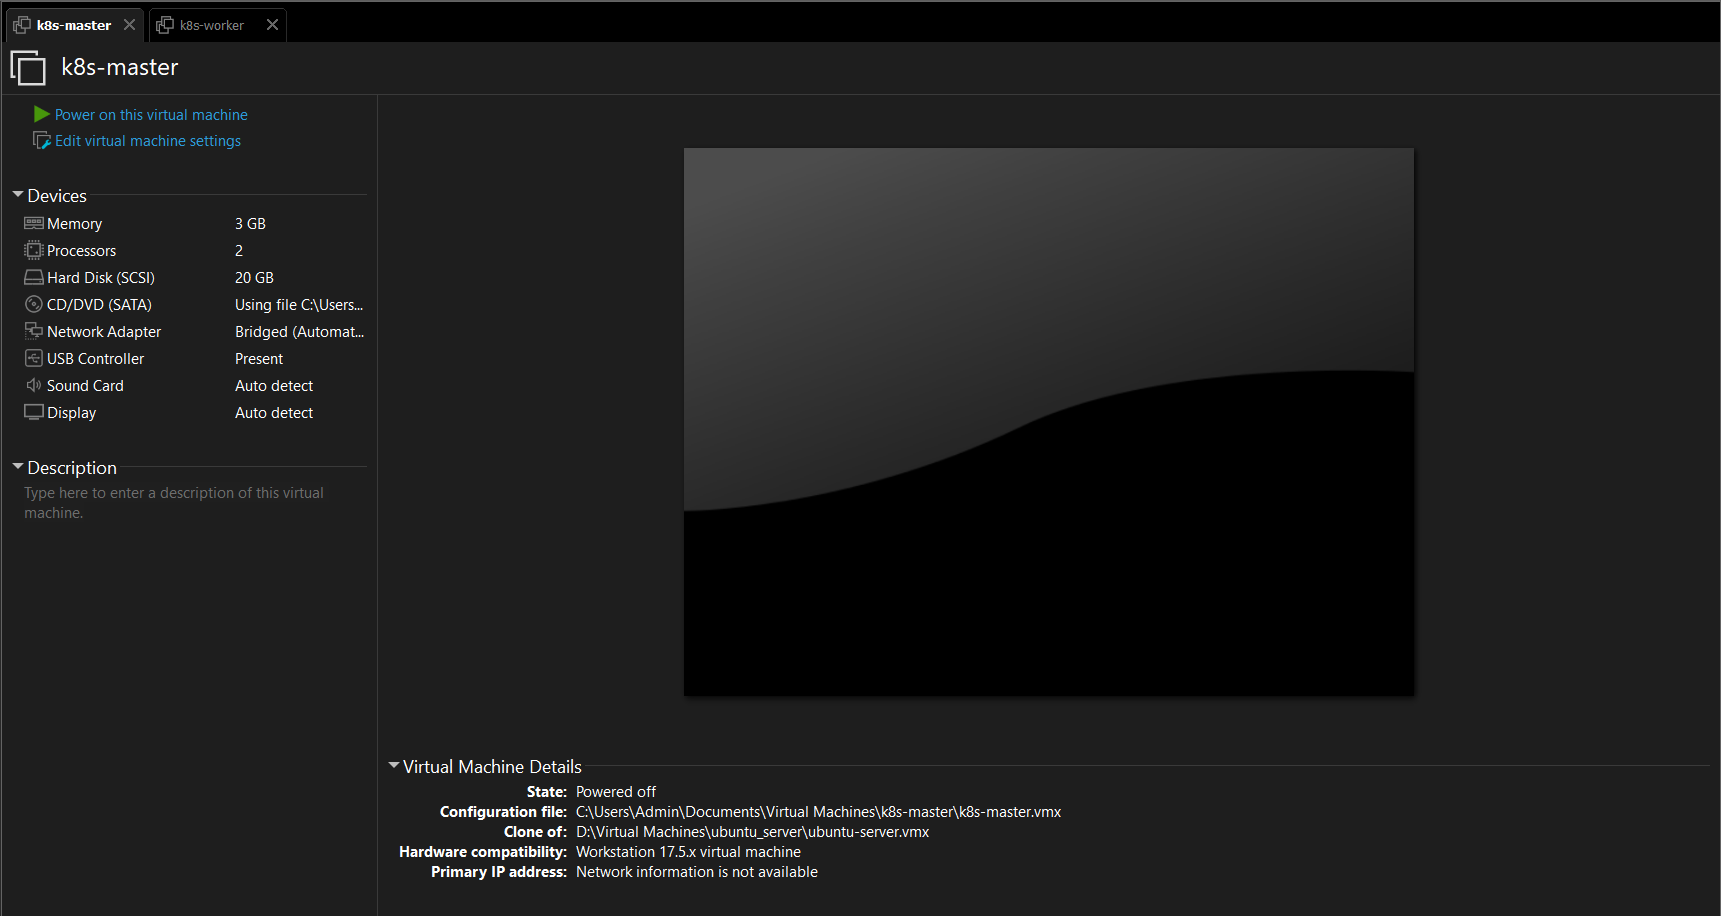
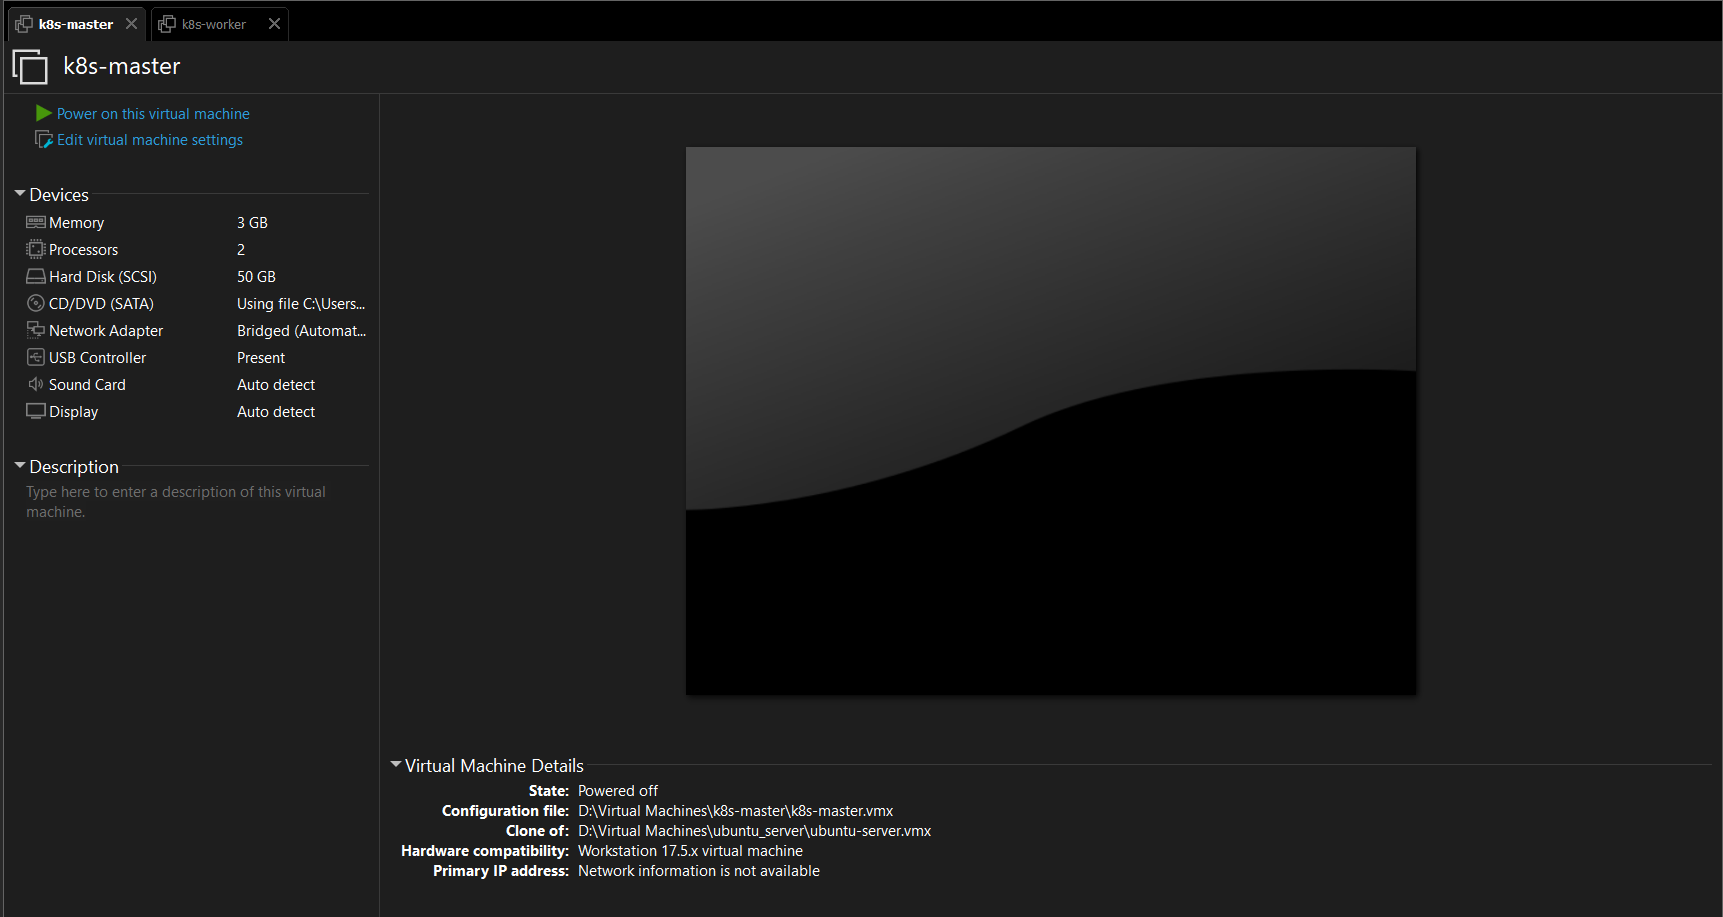
update

diff --git a/ThangPB_b23dcat274_training/cuoi_khoa/README.md b/ThangPB_b23dcat274_training/cuoi_khoa/README.md
@@ -5,13 +5,13 @@
 - Hai VM với cấu hình:
     - **CPU**: 2 core
     - **RAM**: 3GB
-    - **Dung lượng bộ nhớ**: 20GB
+    - **Dung lượng bộ nhớ**: 50GB
 - Hình ảnh minh họa:
 
 <img src="./image/a1.png" alt="" width="900" height="500">
 
 ### Cấu hình mạng cho VM
-- Đại chỉ IP tĩnh cho 2 máy:
+- Địa chỉ IP tĩnh cho 2 máy:
     - **Master**: 192.168.1.120
     - **Worker**: 192.168.1.121
 - Master:
@@ -22,15 +22,15 @@
 
 <img src="./image/a3.png" alt="" width="800" height="400">
 
-### Cài đặt K8s thông qua công cụ kubeadm
+### Cài đặt Kubernetes
 - Tắt swap: kubelet mặc định không chạy khi swap bật, vì ảnh hưởng quản lý bộ nhớ
     ```bash
     sudo swapoff -a
     sudo sed -i '/ swap / s/^/#/' /etc/fstab
     ```
 - Bật kernel modules và sysctl cho networking
-    - `br_netfilter`: để iptables nhìn thấy traffic qua bridge
-    - `ip_forward`: cho phép routing gói tin giữa pod/subnet
+    - **br_netfilter**: để iptables nhìn thấy traffic qua bridge
+    - **ip_forward**: cho phép routing gói tin giữa pod/subnet
     ```bash
     cat <<EOF | sudo tee /etc/modules-load.d/k8s.conf
     overlay
@@ -61,11 +61,11 @@
     sudo systemctl enable containerd
     ```
 - Cài kubeadm/kubelet/kubectl
-    - `kubeadm`: công cụ bootstrap cluster (init/join)
-    - `kubelet`: agent chạy trên node, quản lý pod/container
-    - `kubectl`: CLI quản trị cluster
+    - **kubeadm**: công cụ bootstrap cluster (init/join)
+    - **kubelet**: agent chạy trên node, quản lý pod/container
+    - **kubectl**: CLI quản trị cluster
     ```bash
-        sudo apt update
+    sudo apt update
     sudo apt install -y apt-transport-https ca-certificates curl gpg
     curl -fsSL https://pkgs.k8s.io/core:/stable:/v1.30/deb/Release.key | sudo gpg --dearmor -o /etc/apt/keyrings/kubernetes-apt-keyring.gpg
     echo "deb [signed-by=/etc/apt/keyrings/kubernetes-apt-keyring.gpg] https://pkgs.k8s.io/core:/stable:/v1.30/deb/ /" | sudo tee /etc/apt/sources.list.d/kubernetes.list
@@ -75,14 +75,20 @@
     sudo apt-mark hold kubelet kubeadm kubectl
     ```
 ### Dựng cụm với 1 master - 1 worker
-- Khởi tạo control-plane (trên node master): `sudo kubeadm init`
+- Khởi tạo control-plane (trên node master)
+    ```bash
+    sudo kubeadm init
+    ```
 - Cấu hình kubeconfig cho user (trên node master)
     ```bash
     mkdir -p $HOME/.kube
     sudo cp -i /etc/kubernetes/admin.conf $HOME/.kube/config
     sudo chown $(id -u):$(id -g) $HOME/.kube/config
     ```
-- Cài netwwork với Calico: `kubectl apply -f https://raw.githubusercontent.com/projectcalico/calico/v3.25.0/manifests/calico.yaml`
+- Cài netwwork với Calico 
+    ```bash
+    kubectl apply -f https://raw.githubusercontent.com/projectcalico/calico/v3.25.0/manifests/calico.yaml
+    ```
 - Thêm worker vào cluster (trên node worker)
     ```bash
     kubeadm join 192.168.1.120:6443 --token m9wqak.afb0zw2bfjqium8x \
@@ -100,9 +106,17 @@
 ---
 ## Phần 2: K8s-HelmChart
 ### App được lựa chọn
-- hehe ...
+- Web quản lý sinh viên
+- Teck stack:
+    - **Frontend**: React Vite JS
+    - **Backend**: Node JS
+    - **Database**: MySQL
+- Hình ảnh
+
+<img src="./image/a8.jpg" alt="" width="1000" height="500">
+
 ### Yêu cầu 1
-- **Mục tiêu**: cài đặt được Jenkins và ArgoCD, expose được qua NodePor
+- **Mục tiêu**: cài đặt được Jenkins và ArgoCD, expose được qua NodePort
 #### Cài đặt ArgoCD
 - Install ArgoCD:
     ```bash
@@ -132,23 +146,201 @@
 
 <img src="./image/a6.png" alt="" width="1000" height="500">
 
+- Lệnh lấy pasword ArgoCD:
+    ```bash
+    kubectl -n argocd get secret argocd-initial-admin-secret \
+        -o jsonpath="{.data.password}" | base64 -d; echo
+    ```
 #### Cài đặt Jenkins
 - Install Jenkins:
     ```bash
     kubectl create namespace jenkins
-    nano jenkins.yaml
     kubectl apply -f jenkins.yaml
     ```
-- File Manifest triển khai dịch vụ Jenkins: [File cài đăth jenkins](./manifest/jenkins.yaml)
+- File Manifest triển khai Jenkins: [File manifest jenkins](./manifest/jenkins.yaml)
 - Truy cập jenkins:
     - NodeIP: 192.168.1.121
-    - NodePort của AgroCD: 30999
+    - NodePort của Jenkins: 30999
 - Giao diện jenkins
 
 <img src="./image/a7.png" alt="" width="1000" height="500">
 
 ### Yêu cầu 2
-- ...
+- **Tổng hợp các Repository**
+
+| Repository | Mô tả | Link | 
+|------------|-------|------|
+| typ-backend | Source code backend | [Github](https://github.com/Phamthang-25/typ-backend) |
+| typ-backend-config | Cấu hình backend | [Github](https://github.com/Phamthang-25/typ-backend-config) |
+| typ-frontend | Source code frontend | [Github](https://github.com/Phamthang-25/typ-frontend) |
+| typ-frontend-config | Cấu hình frontend | [Github](https://github.com/Phamthang-25/typ-frontend-config) |
+| typ-db | Helm Chart cho DB | [Github](https://github.com/Phamthang-25/typ-db) |
+
+- **Các Helm Chart để triển khai app**
+1. Helm chart triển khai backend: [Source code](https://github.com/Phamthang-25/typ-backend/tree/main/backend-chart)
+2. Helm chart triển khai frontend: [Source code](https://github.com/Phamthang-25/typ-frontend/tree/main/frontend-chart)
+3. Helm chart triển khai database: [Source code](https://github.com/Phamthang-25/typ-db/tree/main/db-chart)
+
+- **`values-prod.yaml` của backend-config**
+    ```yml
+    image:
+      repository: thang05/typ-backend
+      tag: "v1.0.1"
+      pullPolicy: IfNotPresent
+
+    service:
+      name: student-backend
+      port: 3000
+
+    env:
+      PORT: "3000"
+
+      DB_HOST: "student-mysql"
+      DB_PORT: "3306"
+      DB_NAME: "studentdb"
+      DB_USER: "appuser"
+      DB_PASSWORD: "apppass"
+    ```
+- **`values-prod.yaml` của frontend-config**
+    ```yml
+    image:
+      repository: thang05/typ-frontend
+      tag: "v1.0.1"
+      pullPolicy: IfNotPresent
+
+    service:
+      name: student-frontend
+      port: 80
+
+    ingress:
+      enabled: true
+      className: nginx
+      host: student.example.com
+      path: /
+    ```
+#### Manifest ArgoCD Application
+1. **Manifest triển khai backend**
+```yml
+apiVersion: argoproj.io/v1alpha1
+kind: Application
+metadata:
+  name: typ-backend-prod
+  namespace: argocd
+spec:
+  project: default
+  destination:
+    server: https://kubernetes.default.svc
+    namespace: student-prod
+  syncPolicy:
+    automated:
+      prune: true
+      selfHeal: true
+    syncOptions:
+      - CreateNamespace=true
+
+  sources:
+    - repoURL: https://github.com/Phamthang-25/typ-backend.git
+      targetRevision: main
+      path: backend-chart
+      helm:
+        valueFiles:
+          - $values/helm-values/values-prod.yaml
+
+    - repoURL: https://github.com/Phamthang-25/typ-backend-config.git
+      targetRevision: main
+      ref: values
+```
+2. **Manifest triển khai frontend**
+```yml
+apiVersion: argoproj.io/v1alpha1
+kind: Application
+metadata:
+  name: typ-frontend-prod
+  namespace: argocd
+spec:
+  project: default
+  destination:
+    server: https://kubernetes.default.svc
+    namespace: student-prod
+  syncPolicy:
+    automated:
+      prune: true
+      selfHeal: true
+    syncOptions:
+      - CreateNamespace=true
+
+  sources:
+    - repoURL: https://github.com/Phamthang-25/typ-frontend.git
+      targetRevision: main
+      path: frontend-chart
+      helm:
+        valueFiles:
+          - $values/helm-values/values-prod.yaml
+
+    - repoURL: https://github.com/Phamthang-25/typ-frontend-config.git
+      targetRevision: main
+      ref: values
+```
+3. **Manifest triển khai database**
+```yml
+apiVersion: argoproj.io/v1alpha1
+kind: Application
+metadata:
+  name: typ-db-prod
+  namespace: argocd
+spec:
+  project: default
+  destination:
+    server: https://kubernetes.default.svc
+    namespace: student-prod
+  syncPolicy:
+    automated:
+      prune: true
+      selfHeal: true
+    syncOptions:
+      - CreateNamespace=true
+  source:
+    repoURL: https://github.com/Phamthang-25/typ-db.git
+    targetRevision: main
+    path: db-chart
+    helm:
+      valueFiles:
+        - values.yaml
+```
+- **Ảnh chụp màn hình ArgoCD**
+    - Tổng quan các Application
+
+<img src="./image/a9.png" alt="" width="1000" height="500">
+
+    - Backend application
+
+<img src="./image/a10.png" alt="" width="1000" height="500">
+
+<img src="./image/a11.png" alt="" width="1000" height="500">
+
+<img src="./image/a12.png" alt="" width="1000" height="500">
+
+    - frontend application
+
+<img src="./image/a13.png" alt="" width="1000" height="500">
+
+<img src="./image/a14.png" alt="" width="1000" height="500">
+
+    - Database application
+
+<img src="./image/a15.png" alt="" width="1000" height="500">
+
+- **Ảnh màn hình trình duyệt**: đến đây e có tạo thêm các NodePort
+
+<img src="./image/a18.png" alt="" width="1000" height="80">
+
+    - Hình ảnh truy cập frontend
+
+<img src="./image/a16.png" alt="" width="1000" height="500">
+
+    - Truy cập vào API
+
+<img src="./image/a17.png" alt="" width="1000" height="500">
 
 ---
 ## Phần 3: CI/CD
